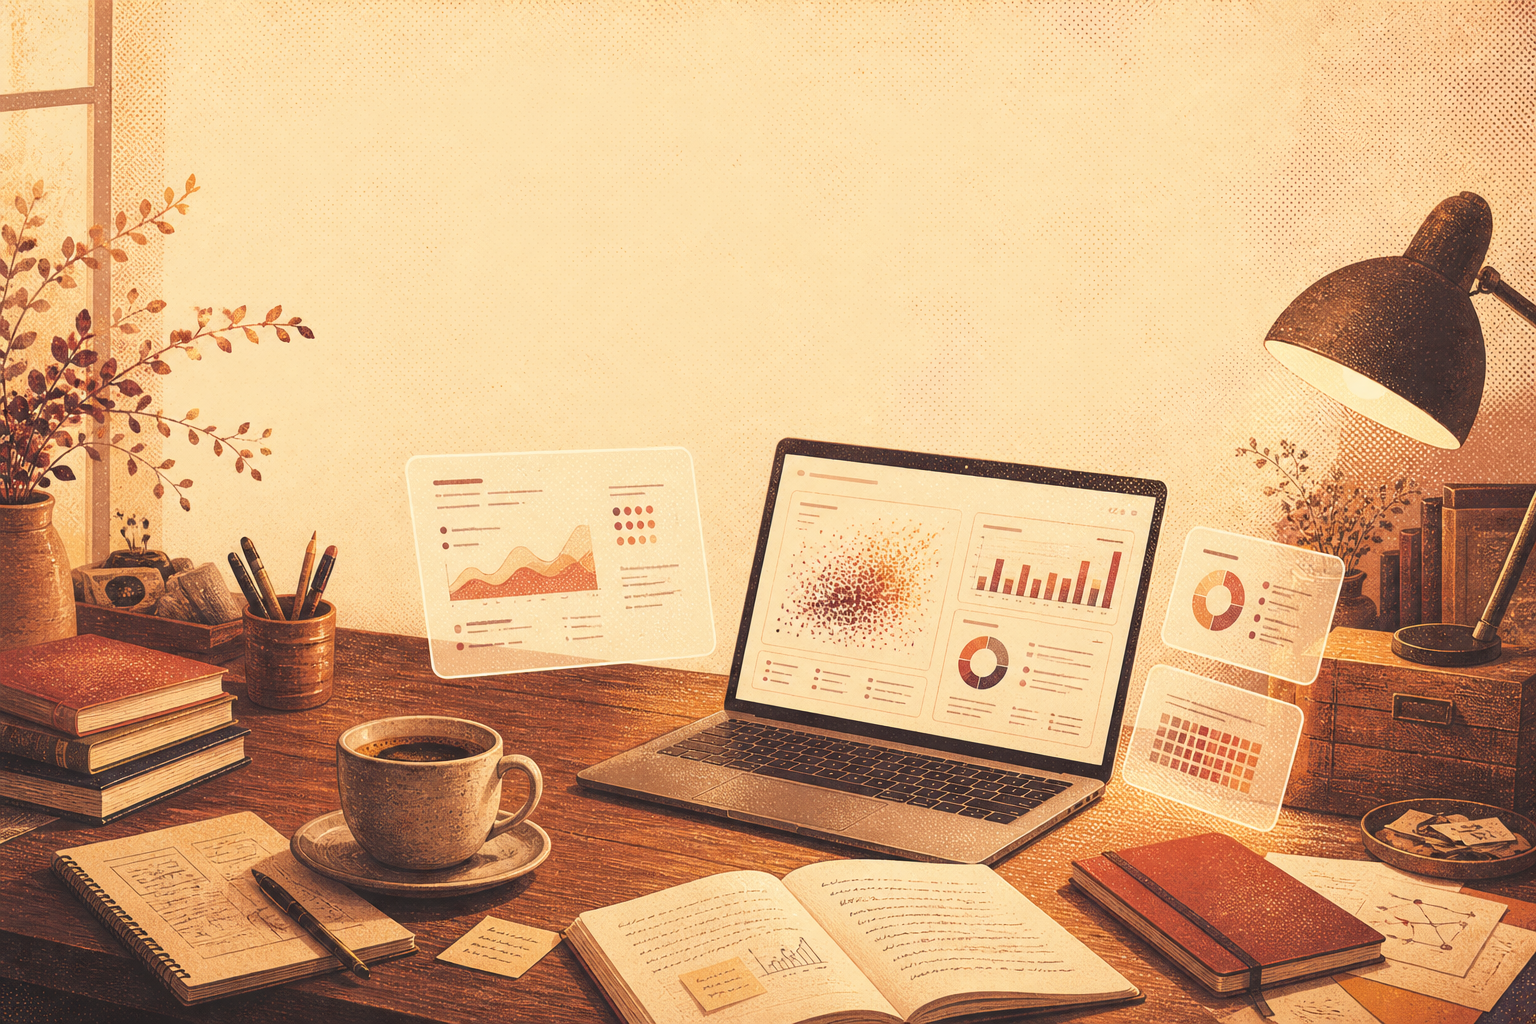
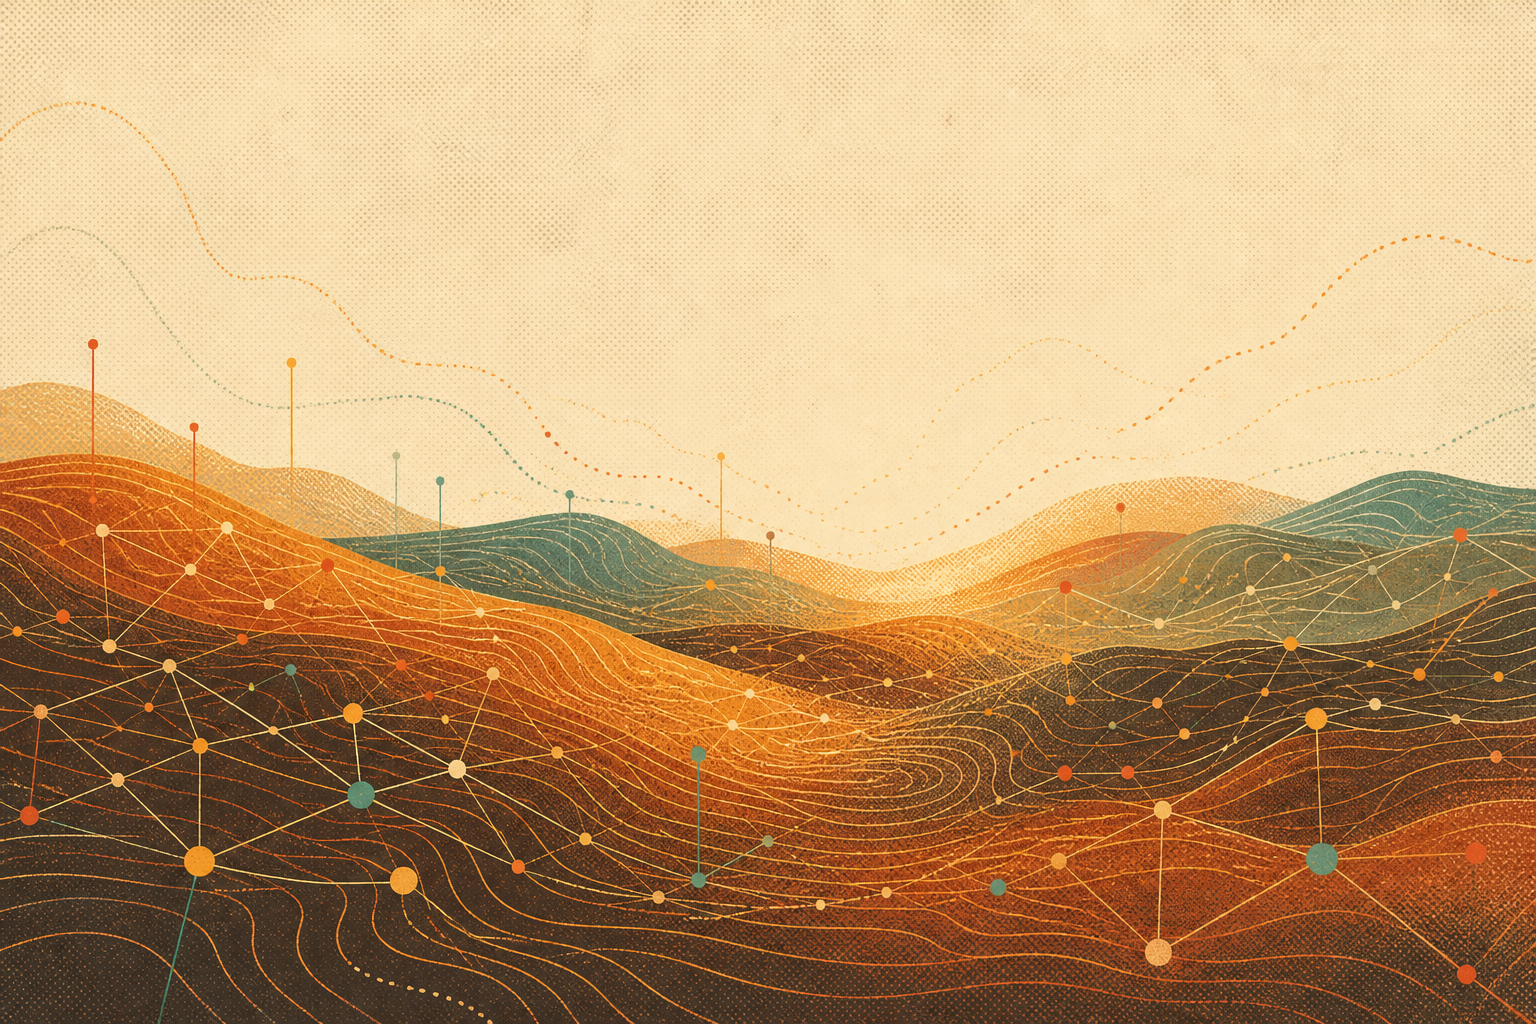
Swap hero to a warm data landscape.

diff --git a/src/styles/global.css b/src/styles/global.css
@@ -2,11 +2,11 @@
 
 :root {
   color-scheme: light;
-  --stage: #f2e6d4;
-  --ink: #2a1c14;
+  --stage: #f4e8d3;
+  --ink: #1d1b1a;
   --mute: rgb(42 28 20 / 0.62);
   --dim: rgb(42 28 20 / 0.38);
-  --signal: #c45a32;
+  --signal: #c85b43;
   --serif: "Newsreader Variable", "Newsreader", "Times New Roman", Times, serif;
   --sans: "Outfit Variable", "Outfit", "Helvetica Neue", Helvetica, Arial, sans-serif;
 }
@@ -102,7 +102,7 @@ a {
   height: 100%;
   max-width: none;
   object-fit: cover;
-  object-position: center 35%;
+  object-position: center 55%;
   transform-origin: 50% 40%;
   animation: world-drift 28s ease-in-out infinite alternate;
 }
@@ -291,7 +291,7 @@ a {
   .world img,
   .world picture,
   .world picture img {
-    object-position: center 42%;
+    object-position: center 60%;
   }
 
   .identity {
